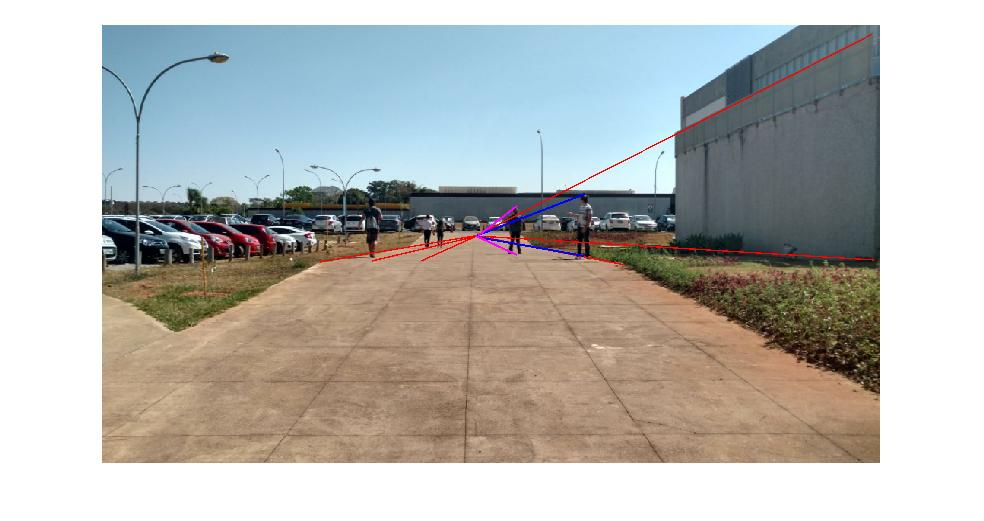
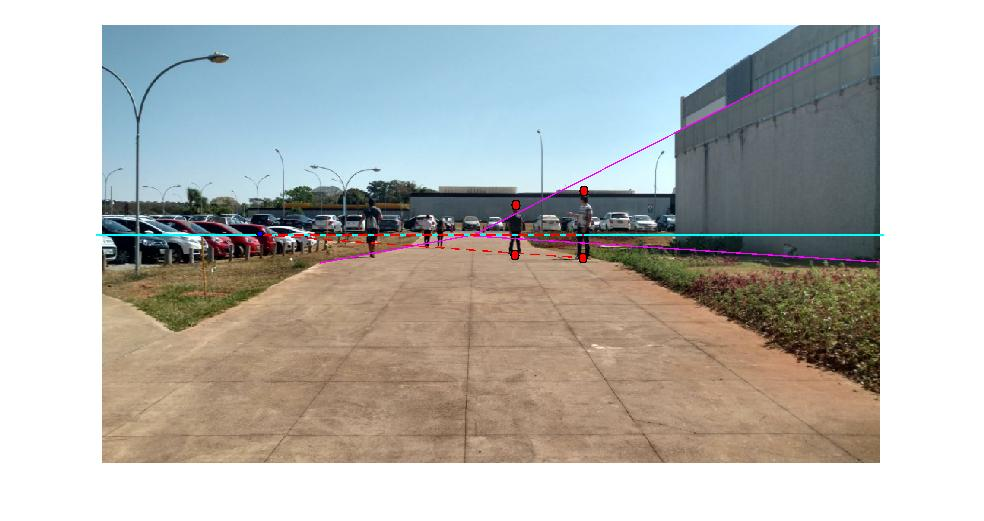
scond commit

diff --git a/script.m b/script.m
@@ -1,16 +1,25 @@
-im = imread('imagem1_linhas.jpg');
+im = imread('Imagem5_linhas.jpg');
 imshow(im);
-pt1 = ginput(1);
-pt2 = ginput(1);
-pt3 = ginput(1);
-pt4 = ginput(1);
-v = ginput(1);
+footP1 = ginput(1);
+headP1 = ginput(1);
+pointP1 = ginput(1);
+footP2 = ginput(1);
+headP2 = ginput(1);
+pointP2 = ginput(1);
+vanish_p = ginput(1);
 
-hr = sqrt(((pt1(1,1) - pt2(1,1)).^2) + ((pt1(1,2) - pt2(1,2)).^2));
-hinf = sqrt(((v(1,1) - pt2(1,1)).^2) + ((v(1,2) - pt2(1,2)).^2));
-hl = sqrt(((pt3(1,1) - pt4(1,1)).^2) + ((pt3(1,2) - pt4(1,2)).^2));
-hlinf = sqrt(((v(1,1) - pt3(1,1)).^2) + ((v(1,2) - pt3(1,2)).^2));
+hr = sqrt(((footP1(1,1) - pointP1(1,1)).^2) + ((footP1(1,2) - pointP1(1,2)).^2));
+hinf = sqrt(((vanish_p(1,1) - pointP1(1,1)).^2) + ((vanish_p(1,2) - pointP1(1,2)).^2));
+hl = sqrt(((pointP2(1,1) - footP2(1,1)).^2) + ((pointP2(1,2) - footP2(1,2)).^2));
+hlinf = sqrt(((vanish_p(1,1) - pointP2(1,1)).^2) + ((vanish_p(1,2) - pointP2(1,2)).^2));
 
-HR = 1.75;
+htrue = sqrt(((footP1(1,1) - headP1(1,1)).^2) + ((footP1(1,2) - headP1(1,2)).^2));
+htrue2 = sqrt(((footP2(1,1) - headP2(1,1)).^2) + ((footP2(1,2) - headP2(1,2)).^2));
+
+altura = 1.86;
+
+HR = (altura*hr)/htrue;
 
 H = HR*(hl*hinf)/(hr*hlinf);
+
+altura2 = H*htrue2/(hl);
